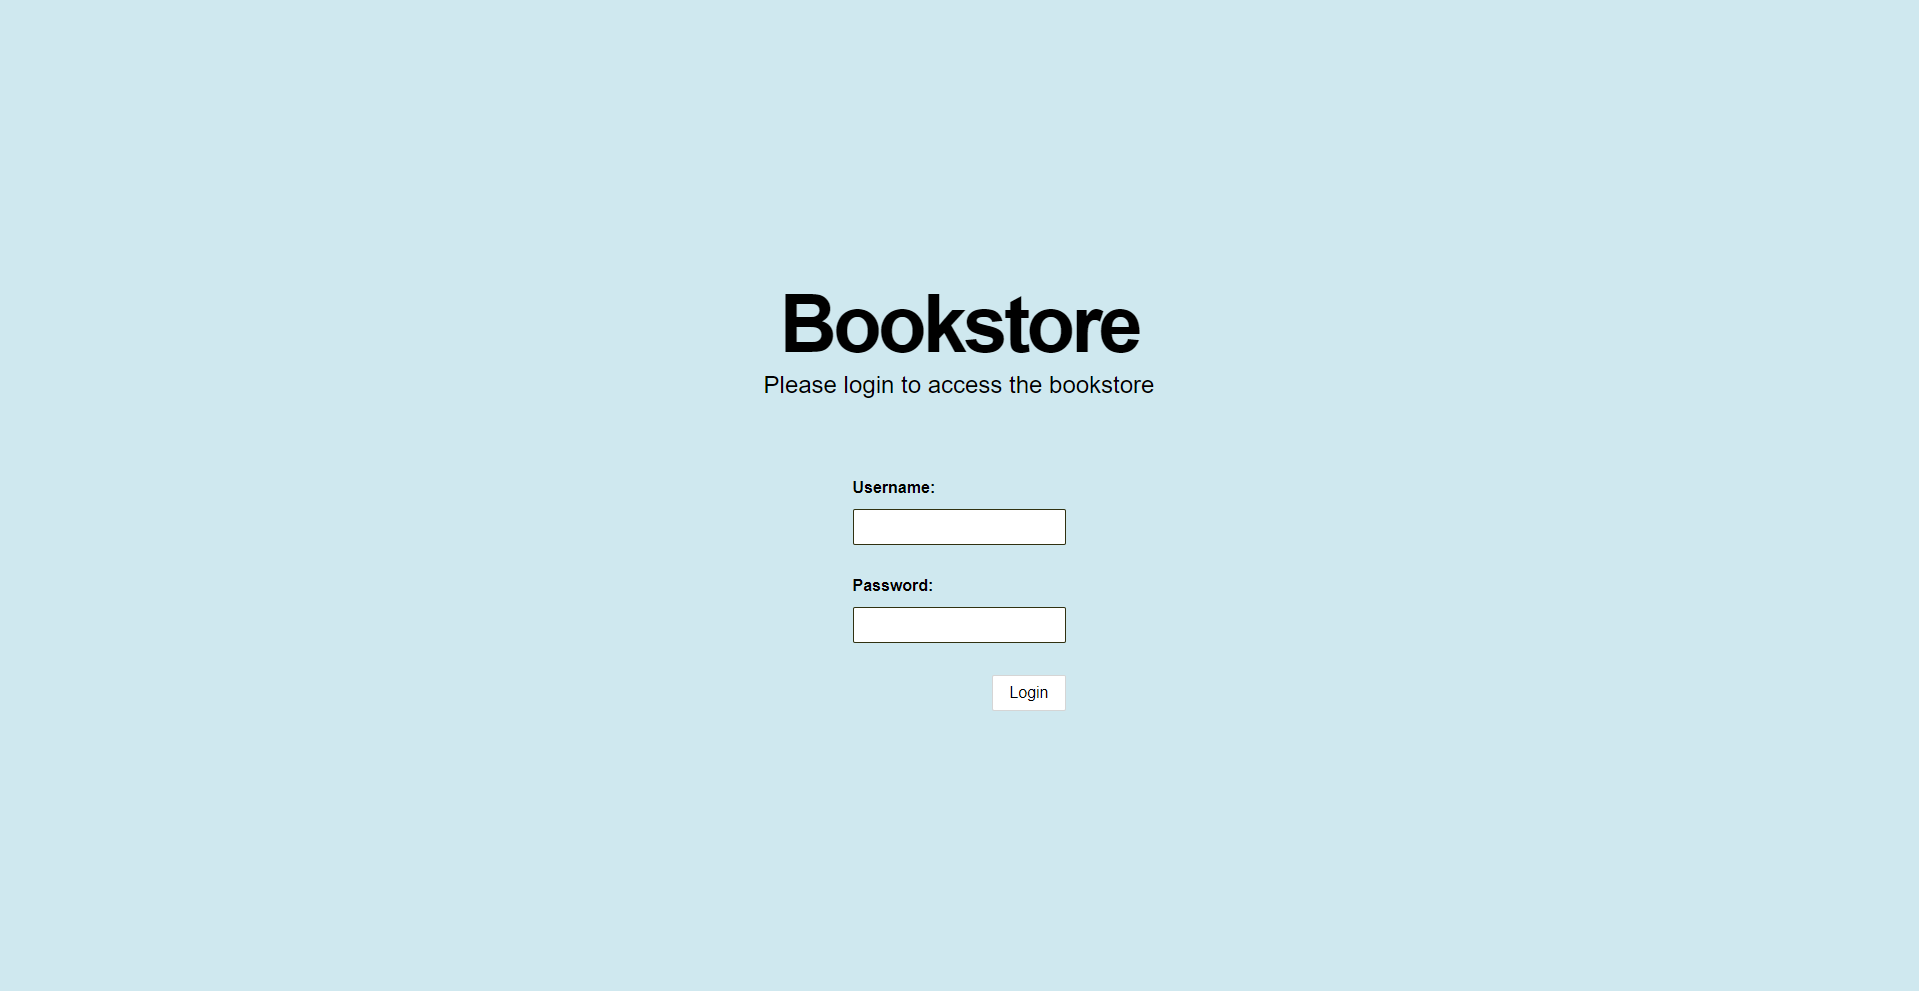
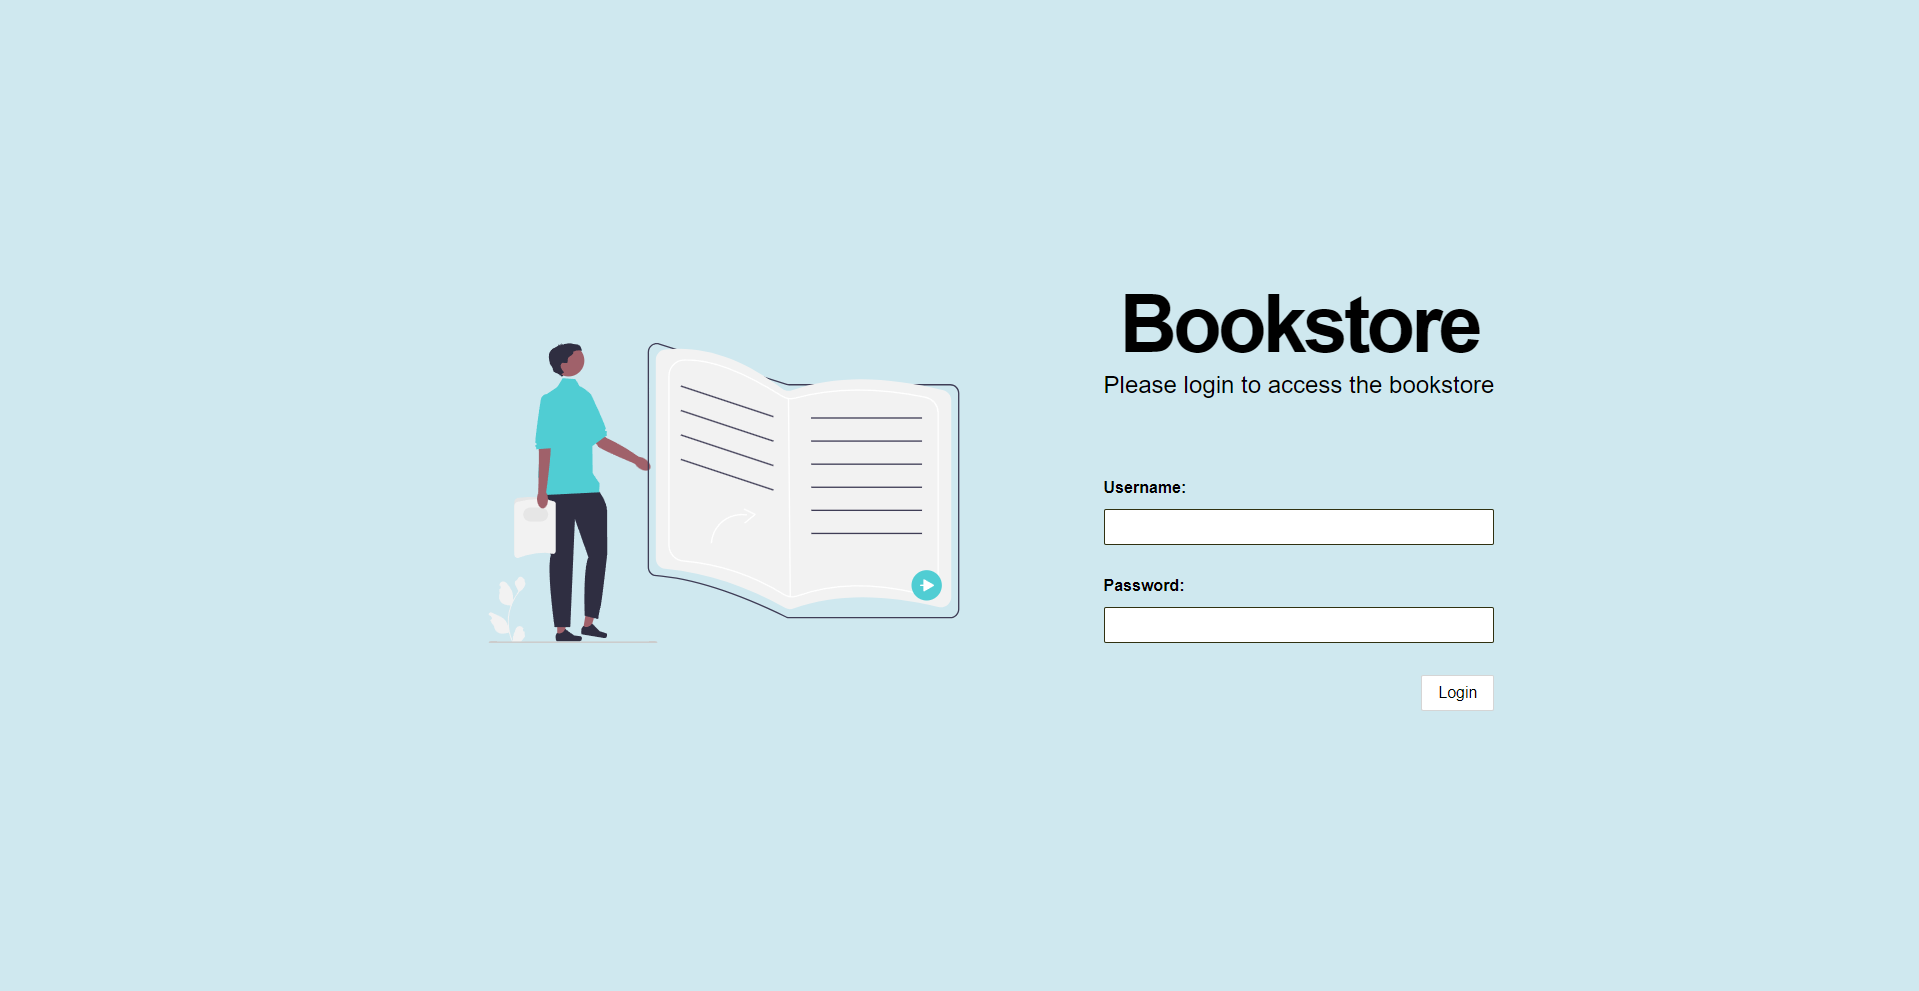
Update demo preview & add auth credentials to README

Changed region(s): [[0.246, 0.2725, 0.7994, 0.7265]]

diff --git a/client/README.md b/client/README.md
@@ -18,6 +18,18 @@ A live demo of the project can be found [here](https://chrisdruke-bookstore.onre
 
 If you'd like to host the project yourself, clone the repo and within the root of the project run `npm run start` command to host the localized API server (probably at `localhost:3000`). Then navigate into `/client` and run `npm run dev` to host the bookstore frontend locally.
 
+To login to the application, you can use either of the following credentials:
+
+```
+username: harry
+password: potter
+```
+
+```
+username: hermione
+password: granger
+```
+
 ## Acknowledgements
 
 - [Matina](https://www.linkedin.com/in/matina-patsos-63aa2626/) & [Jamal](https://www.linkedin.com/in/jamal-taylor/) - for their continued guidance and advice with the project, and web development as a whole! :smile:
